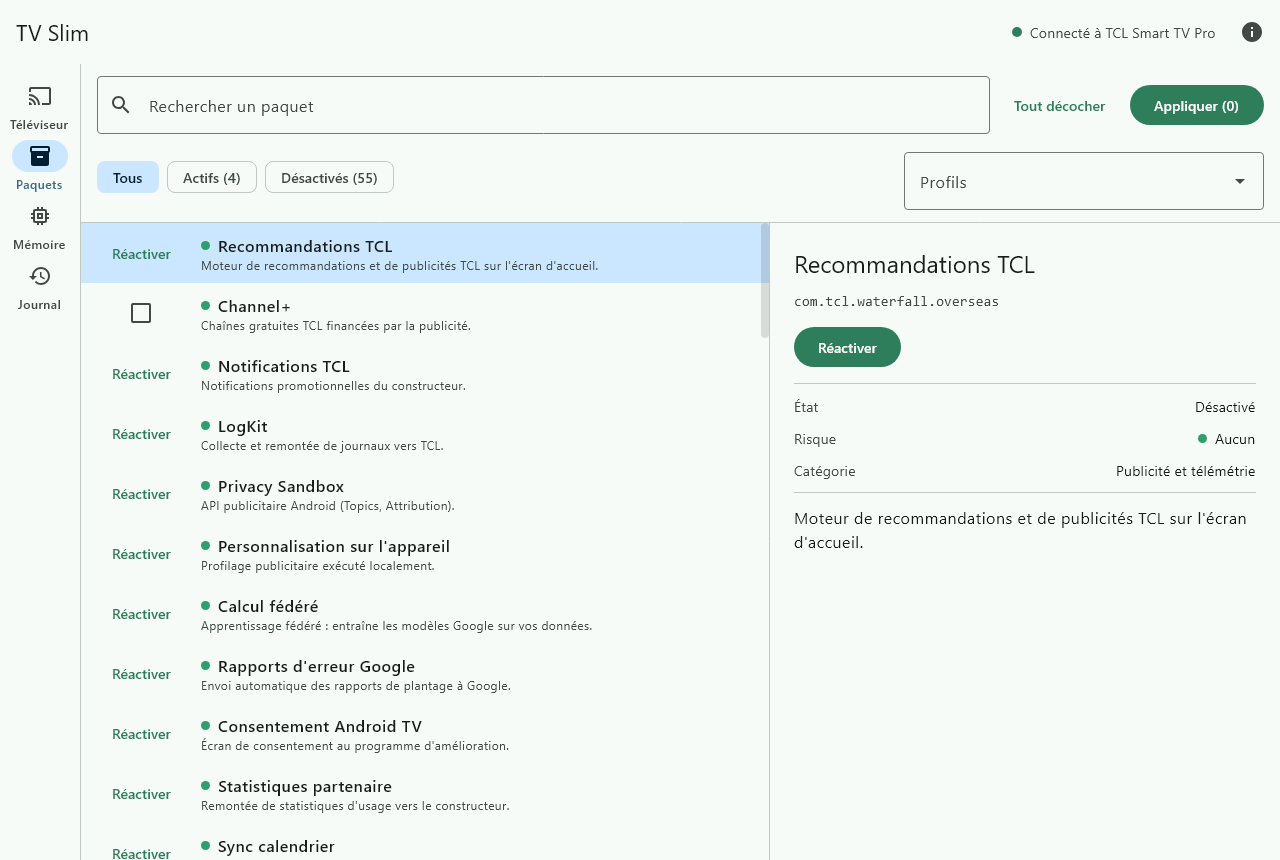
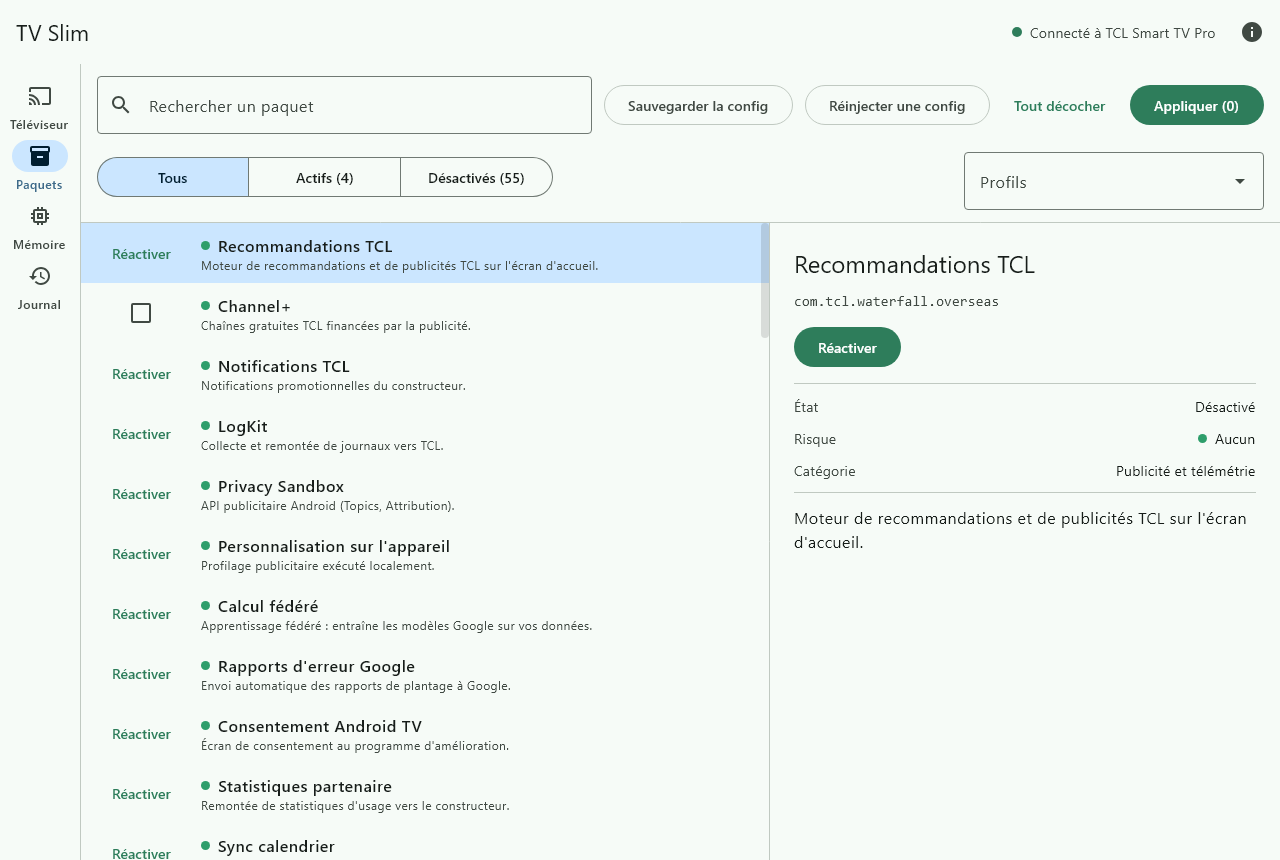
docs: annoncer la sauvegarde de configuration, le stockage et l'accueil d'usine
Les deux README décrivent la configuration qu'on sauvegarde puis réinjecte, la vue Stockage de
l'onglet Mémoire et l'accueil d'usine listé même désactivé. La capture de l'onglet Paquets, refaite
sur la TCL, montre les nouveaux boutons et le sélecteur de filtres.

Changed region(s): [[0.0625, 0.1814, 0.4062, 0.2419], [0.6562, 0.1209, 0.75, 0.1512], [0.5, 0.1209, 0.5938, 0.1512]]

diff --git a/README.fr.md b/README.fr.md
@@ -46,15 +46,19 @@ Windows 10 ou 11, 64 bits. Java est inclus : il n'y a rien d'autre à installer.
 ## Ce qu'on peut faire
 
 - **Téléviseur** — modèle et fabricant, version d'Android, mémoire, paquets actifs et désactivés ;
-  l'écran d'accueil et les launchers installés, reconnus à leur logo ; le remplaçant recommandé,
-  Startlight Launcher (bientôt sur le Play Store) ; accorder les permissions privilégiées dont
-  certaines applications ont besoin (`WRITE_SECURE_SETTINGS`, `DUMP`…).
+  l'écran d'accueil et les launchers installés, reconnus à leur logo, l'accueil d'usine compris même
+  désactivé ; le remplaçant recommandé, Startlight Launcher (bientôt sur le Play Store) ; accorder
+  les permissions privilégiées dont certaines applications ont besoin (`WRITE_SECURE_SETTINGS`,
+  `DUMP`…).
 - **Paquets** — les paquets connus réellement présents sur *votre* téléviseur, avec leur niveau de
   risque, leur taille, leur description et leurs effets de bord connus ; des profils prêts à
   l'emploi (publicité et télémétrie, assistants vocaux, services de streaming préinstallés…) ;
-  application en une fois, après une confirmation qui liste les effets de bord.
-- **Mémoire** — ce que coûte réellement chaque processus, et la comparaison avant/après depuis la
-  première visite.
+  application en une fois, après une confirmation qui liste les effets de bord. Sauvegarder la
+  configuration du téléviseur — paquets et écran d'accueil — dans un fichier, et la réinjecter plus
+  tard, sur le même téléviseur ou sur un autre du même modèle.
+- **Mémoire** — mémoire vive : ce que coûte réellement chaque processus, et la comparaison
+  avant/après depuis la première visite. Stockage : l'espace libre et occupé, et les applications
+  les plus lourdes.
 - **Journal** — chaque action, avec la commande qui l'annule ; annuler une seule ligne ou tout
   restaurer ; export en Markdown.
 

diff --git a/README.md b/README.md
@@ -42,15 +42,16 @@ Windows 10 or 11, 64-bit. Java is bundled: there is nothing else to install.
 ## What you can do
 
 - **Television** — model and maker, Android version, memory, enabled and disabled packages; the
-  home screen and the launchers installed, recognised by their logo; the recommended replacement,
-  Startlight Launcher (coming soon to the Play Store); grant the privileged permissions some apps
-  need (`WRITE_SECURE_SETTINGS`, `DUMP`…).
+  home screen and the launchers installed, recognised by their logo, the factory home screen
+  included even once disabled; the recommended replacement, Startlight Launcher (coming soon to the
+  Play Store); grant the privileged permissions some apps need (`WRITE_SECURE_SETTINGS`, `DUMP`…).
 - **Packages** — the known packages actually present on *your* TV, with risk level, size,
   description and known side effects; ready-made profiles (ads and telemetry, voice assistants,
   preinstalled streaming services…); applied in one go, after a confirmation that lists the side
-  effects.
-- **Memory** — what each running process really costs, and the before/after comparison since your
-  first visit.
+  effects. Save the TV's configuration — packages and home screen — to a file, and reinject it
+  later, on the same TV or on another one of the same model.
+- **Memory** — RAM: what each running process really costs, and the before/after comparison since
+  your first visit. Storage: free and used space, and the largest applications.
 - **Log** — every action with the command that undoes it; undo a single line or restore everything;
   export as Markdown.
 
